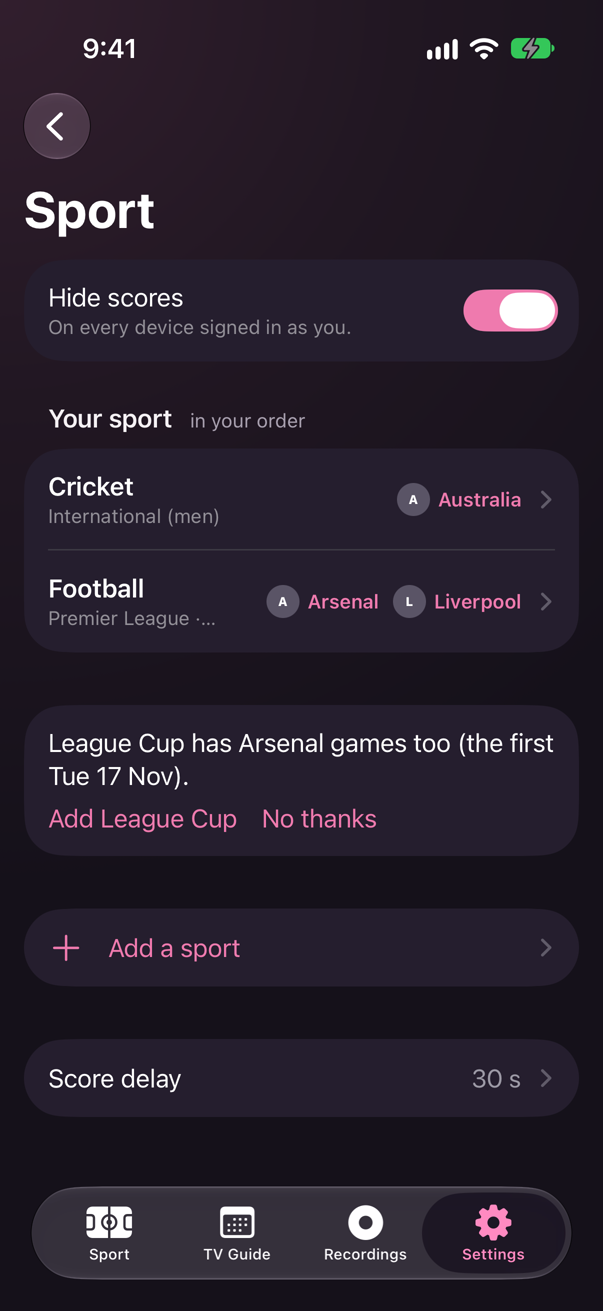
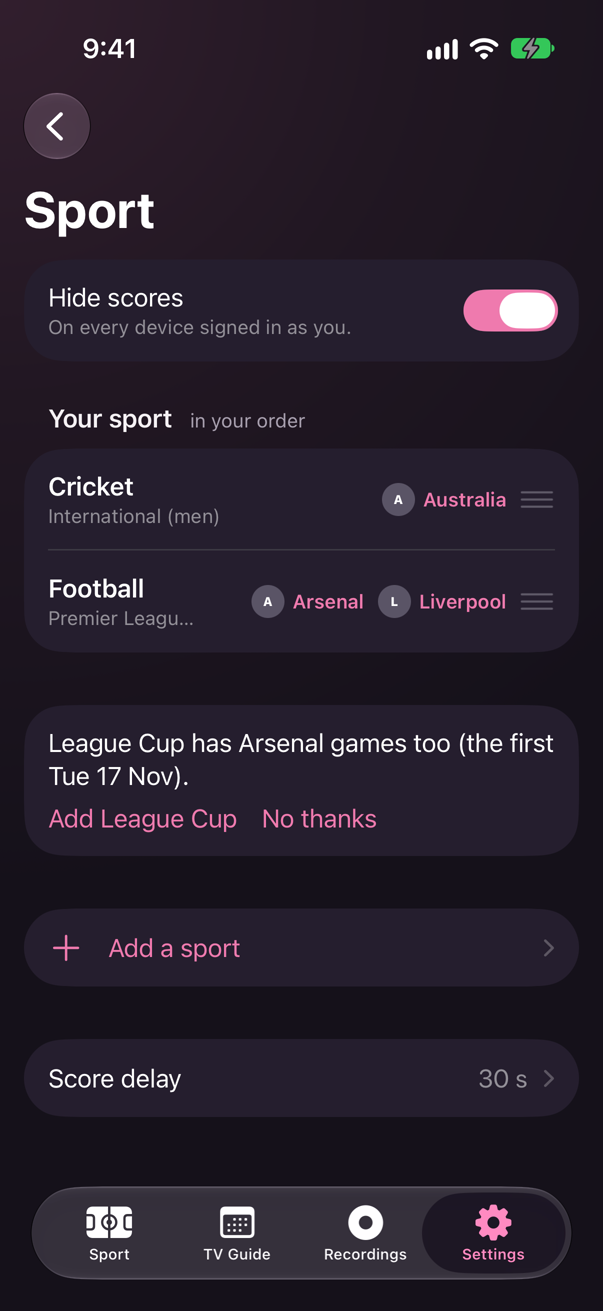
docs: Apple 243 (#317) evidence and ROADMAP's current state
Refs #317

diff --git a/docs/evidence/2026-11-14-sport-order/README.md b/docs/evidence/2026-11-14-sport-order/README.md
@@ -1,15 +1,17 @@
-# Sport order by drag, Apple 242 (#317)
+# Sport order by drag, Apple 242 and 243 (#317)
 
 Mark's three requests from TestFlight 239, 14 Nov 2026:
 
 1. Settings › Sport has no Edit order. On iPhone and iPad a sport is pressed and dragged at any time, and the drop is saved at once.
 2. A sport's own page has no Move up / Move down, for the sport or its leagues, on any device. Leagues are dragged like the sports (iPhone, iPad). By Mark's choice the Apple TV can no longer reorder.
 3. The iPhone Sport carousel's position line reads "1 of 4" (no "· yours, then live").
+4. (243, Mark's follow-up) Every sport and league shows the usual line handles (≡), with no words. Both Forms are always in edit mode, and the rows that open a page are buttons, because a NavigationLink does not open in edit mode.
 
 ## Evidence
 
-- `iphone-sport-drag.png`: iPhone 17 simulator, offline fixture, after Cricket was dragged above Football with no Edit order.
-- `iphone-league-drag.png`: Football's page after Champions League was dragged above Premier League; Stop following is the page's only action above its leagues.
-- Tests: `TouchLayoutUITests.testPhoneSportsAndLeaguesAreReorderedByDraggingWithoutEditOrder` (iPhone) and `SportSettingsUITests` (tvOS: no Move up / Move down) passed. `Tools/test.sh fast` passed, and so did the unit tests for `orderLeagues` and the position line.
+- `iphone-sport-drag.png`: iPhone 17 simulator, offline fixture, 243: after Cricket was dragged above Football by its handle.
+- `iphone-league-drag.png`: Football's page after Champions League was dragged above Premier League by its handle.
+- `ipad-sport-handles.png`, `ipad-league-handles.png`: iPad Pro 13 (scratch test), with the handles on the sports and leagues (the cropped-off sidebar showed the fixture's server address).
+- Tests: `TouchLayoutUITests.testPhoneSportsAndLeaguesAreReorderedByDraggingWithoutEditOrder` (iPhone: the handles, both drags, and each row that opens a page; 3 runs of 3) and `SportSettingsUITests` (tvOS: no Move up / Move down) passed. `Tools/test.sh fast` passed, and so did the unit tests for `orderLeagues` and the position line.
 - No review was needed: the change is sport UI, under 150 lines, and outside the client contract.
 - T5, Mark: on the iPhone and the iPad, drag a sport in Settings › Sport and a league on a sport's page, leave and come back, and check that the Sport page follows the new order.

diff --git a/ROADMAP.md b/ROADMAP.md
@@ -9,9 +9,9 @@ Current state, then what comes next by issue. Open work lives in [GitHub Issues]
 
 - **Released:** server **v0579** (`:release`, 13 Nov; v0577 the day before) and Apple **239** uploaded to TestFlight
   (tvOS and iOS, 14 Nov, after `Tools/test.sh all` in the Mac's clone). A release runs on Mark's go-ahead (D-45). Next
-  builds: server **0602**, Apple **243**. Apple 241 and 242 are pushed, not uploaded.
-- **14 Nov, Apple 242 pushed (#317, Mark's requests from 239):** on iPhone and iPad, sports in Settings › Sport and
-  leagues on a sport's page are dragged at any time and saved at the drop (no Edit order). Move up / Move down are gone
+  builds: server **0602**, Apple **244**. Apple 241 to 243 are pushed, not uploaded.
+- **14 Nov, Apple 242 and 243 pushed (#317, Mark's requests from 239):** on iPhone and iPad, sports in Settings › Sport and
+  leagues on a sport's page always show the reorder handles (≡), are dragged by them and saved at the drop (no Edit order). Move up / Move down are gone
   everywhere, so the Apple TV can't reorder (Mark's choice). The iPhone carousel reads "1 of 4". Evidence:
   `docs/evidence/2026-11-14-sport-order/`.
 - **14 Nov, batch Apple 2 pushed, Apple 240 and 241 (#262, D-62):** iPhone and iPad run from iOS 17.0, the Apple TV
